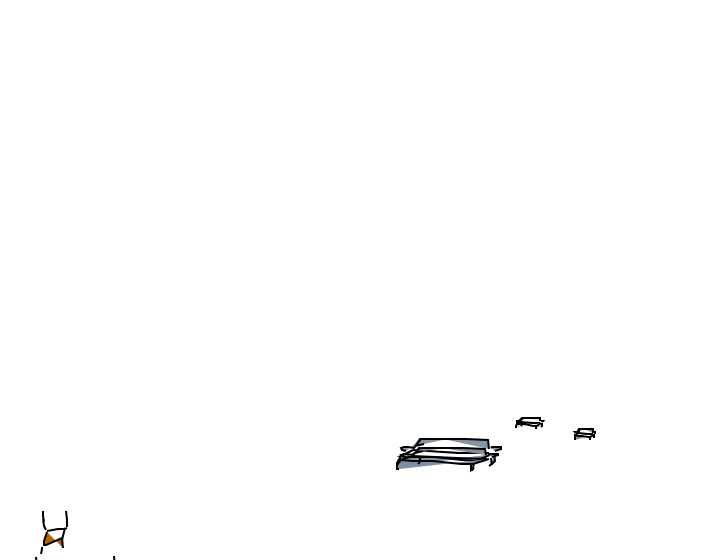
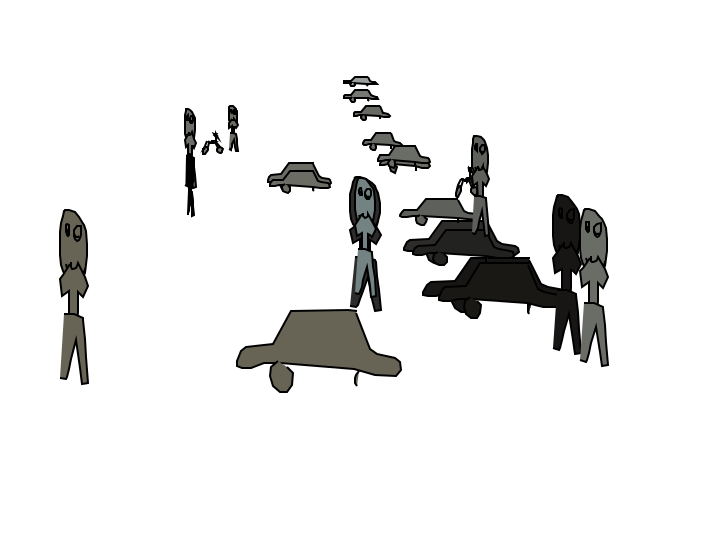
complete implementation

diff --git a/draw.py b/draw.py
@@ -41,8 +41,10 @@ def unpack_drawings(filename):
 def get_objects(boxes, classes):
 
     objs = []
+    objs_p = []
     LABELS =open("yolo/coco.names").read().strip().split("\n")
     boxes2 = []
+    boxes_p = []
 
     i=-1
     for y_class in classes:
@@ -54,21 +56,39 @@ def get_objects(boxes, classes):
             for drawing in arr:
                 objs.append(drawing)
                 break
-        elif(y_class == 'person'):
-            pass
+
+        elif(LABELS[y_class] == 'person'):
+            face = unpack_drawings('dataset/face.bin')
+            tshirt = unpack_drawings('dataset/t-shirt.bin')
+            pants = unpack_drawings('dataset/pants.bin')
+
+            arr_p = [face, tshirt, pants]
+
+            obj = []
+            for k in arr_p:
+                for drawing  in k:
+                    obj.append(drawing)
+                    break
+            
+            objs_p.append(obj)
+            boxes_p.append(boxes[i])
 
         else:
             continue
 
     
-    return boxes2, objs
+    return boxes2, objs, boxes_p, objs_p
 
 
-def drawing(boxes, objs, colors):
+def drawing(boxes, objs, colors, classes):
 
     surface = gz.Surface(width=720, height=560) # in pixels
     rect = gz.rectangle(lx=720, ly=560, xy=(360,280), fill=(1,1,1))
     rect.draw(surface)
+
+    LABELS =open("yolo/coco.names").read().strip().split("\n")
+    colors = [colors[i] for i in range(len(colors)) if LABELS[classes[i]] != 'person']
+    #print(len(colors))
 
     i=0
     for strokes in objs:
@@ -90,7 +110,46 @@ def drawing(boxes, objs, colors):
         lines.draw(surface)
         i+=1
 
+    #surface.write_to_png("gallery/circle.png")
+    return surface
+
+
+def draw_person(surface, boxes, objs, colors):
+
+    i=0
+    for obj in objs:
+        k = 0
+        for strokes in obj:
+            lines_list = []
+            for stroke in strokes['image']:
+                x, y = stroke
+
+                x = tuple([(z*boxes[i][2])//255 for z in x])
+                y = tuple([(z*boxes[i][3])//255 for z in y])
+
+                x = tuple([z+boxes[i][0] for z in x])
+                y = tuple([z+boxes[i][1]+((k*boxes[i][3])//255) for z in y])
+
+                points = list(zip(x, y))
+                line = gz.polyline(points=points, stroke=[0,0,0], stroke_width=2, fill=colors[i])
+                lines_list.append(line)
+
+            lines = gz.Group(lines_list)
+            lines.draw(surface)
+            k+=160
+        i+=1
+    
     surface.write_to_png("gallery/circle.png")
+
+
+
+
+
+            
+
+
+    
+    
 
 
 

diff --git a/cartoonify.py b/cartoonify.py
@@ -1,21 +1,23 @@
 import cv2
 from yolo import yolo
-from draw import get_objects, drawing
+from draw import get_objects, drawing, draw_person
 from color import coloring
 import numpy as np
 
 # Object Detection
-image = cv2.imread("gallery/image2.jpg")
+image = cv2.imread("gallery/image1.png")
 boxes, classes = yolo(image.copy())
 
 
 # Objects -> doodles
-boxes_final, objs = get_objects(boxes, classes)
+boxes_final, objs, boxes_person, objs_person = get_objects(boxes, classes)
 
 
 # Coloring the sketched image
 colors = coloring(boxes, image)
 colors = list(np.array(colors)/255)
 
+
 # Drawing colored doodles
-drawing(boxes_final, objs, colors)
+surface = drawing(boxes_final, objs, colors, classes)
+draw_person(surface, boxes_person, objs_person, colors)

diff --git a/color.py b/color.py
@@ -10,7 +10,7 @@ def coloring(boxes, image):
         x, y, w, h = boxes[i]
         colors.append((np.mean(image[x:x+w, y:y+h, 0]), np.mean(image[x:x+w, y:y+h, 1]), np.mean(image[x:x+w, y:y+h, 2])))
     
-    print(colors)
+    #print(colors)
     return colors
 
 #coloring(cv2.imread("gallery/image1.png"))
